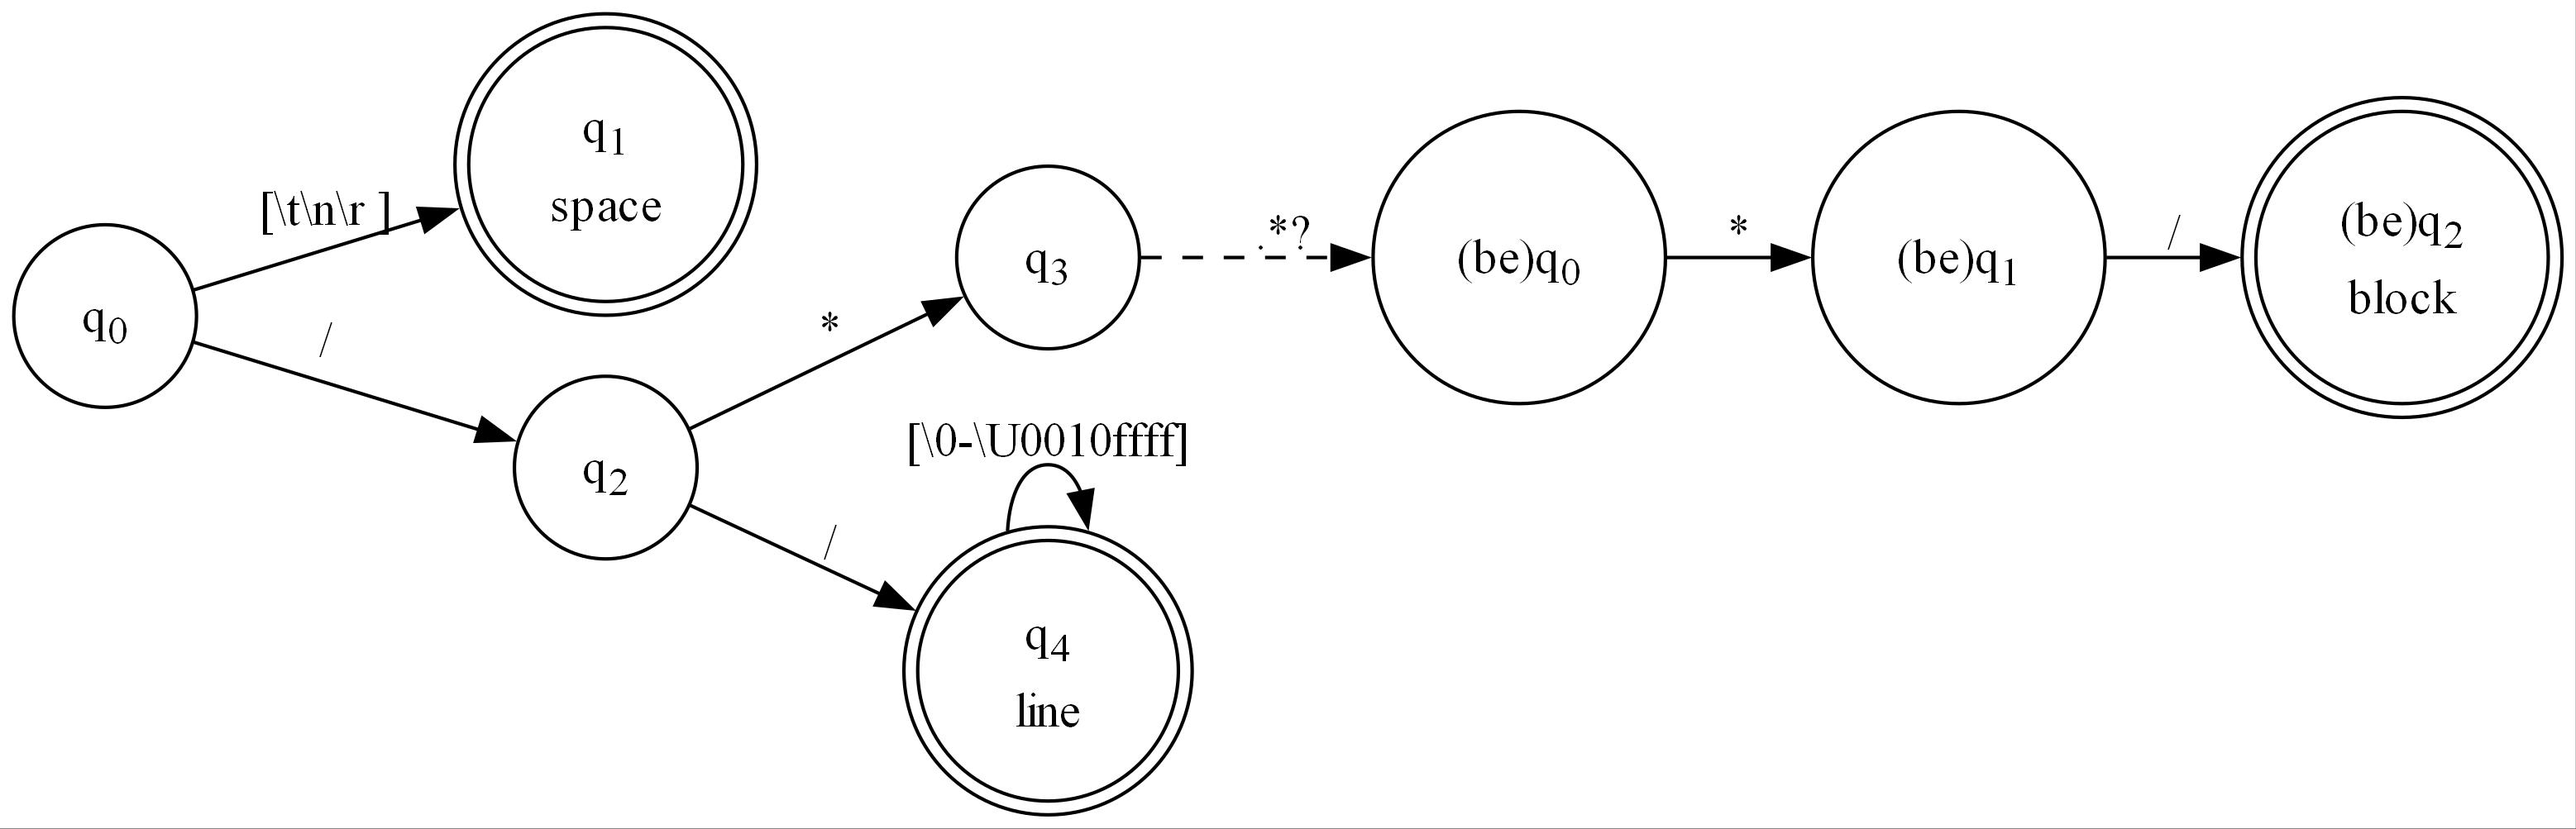
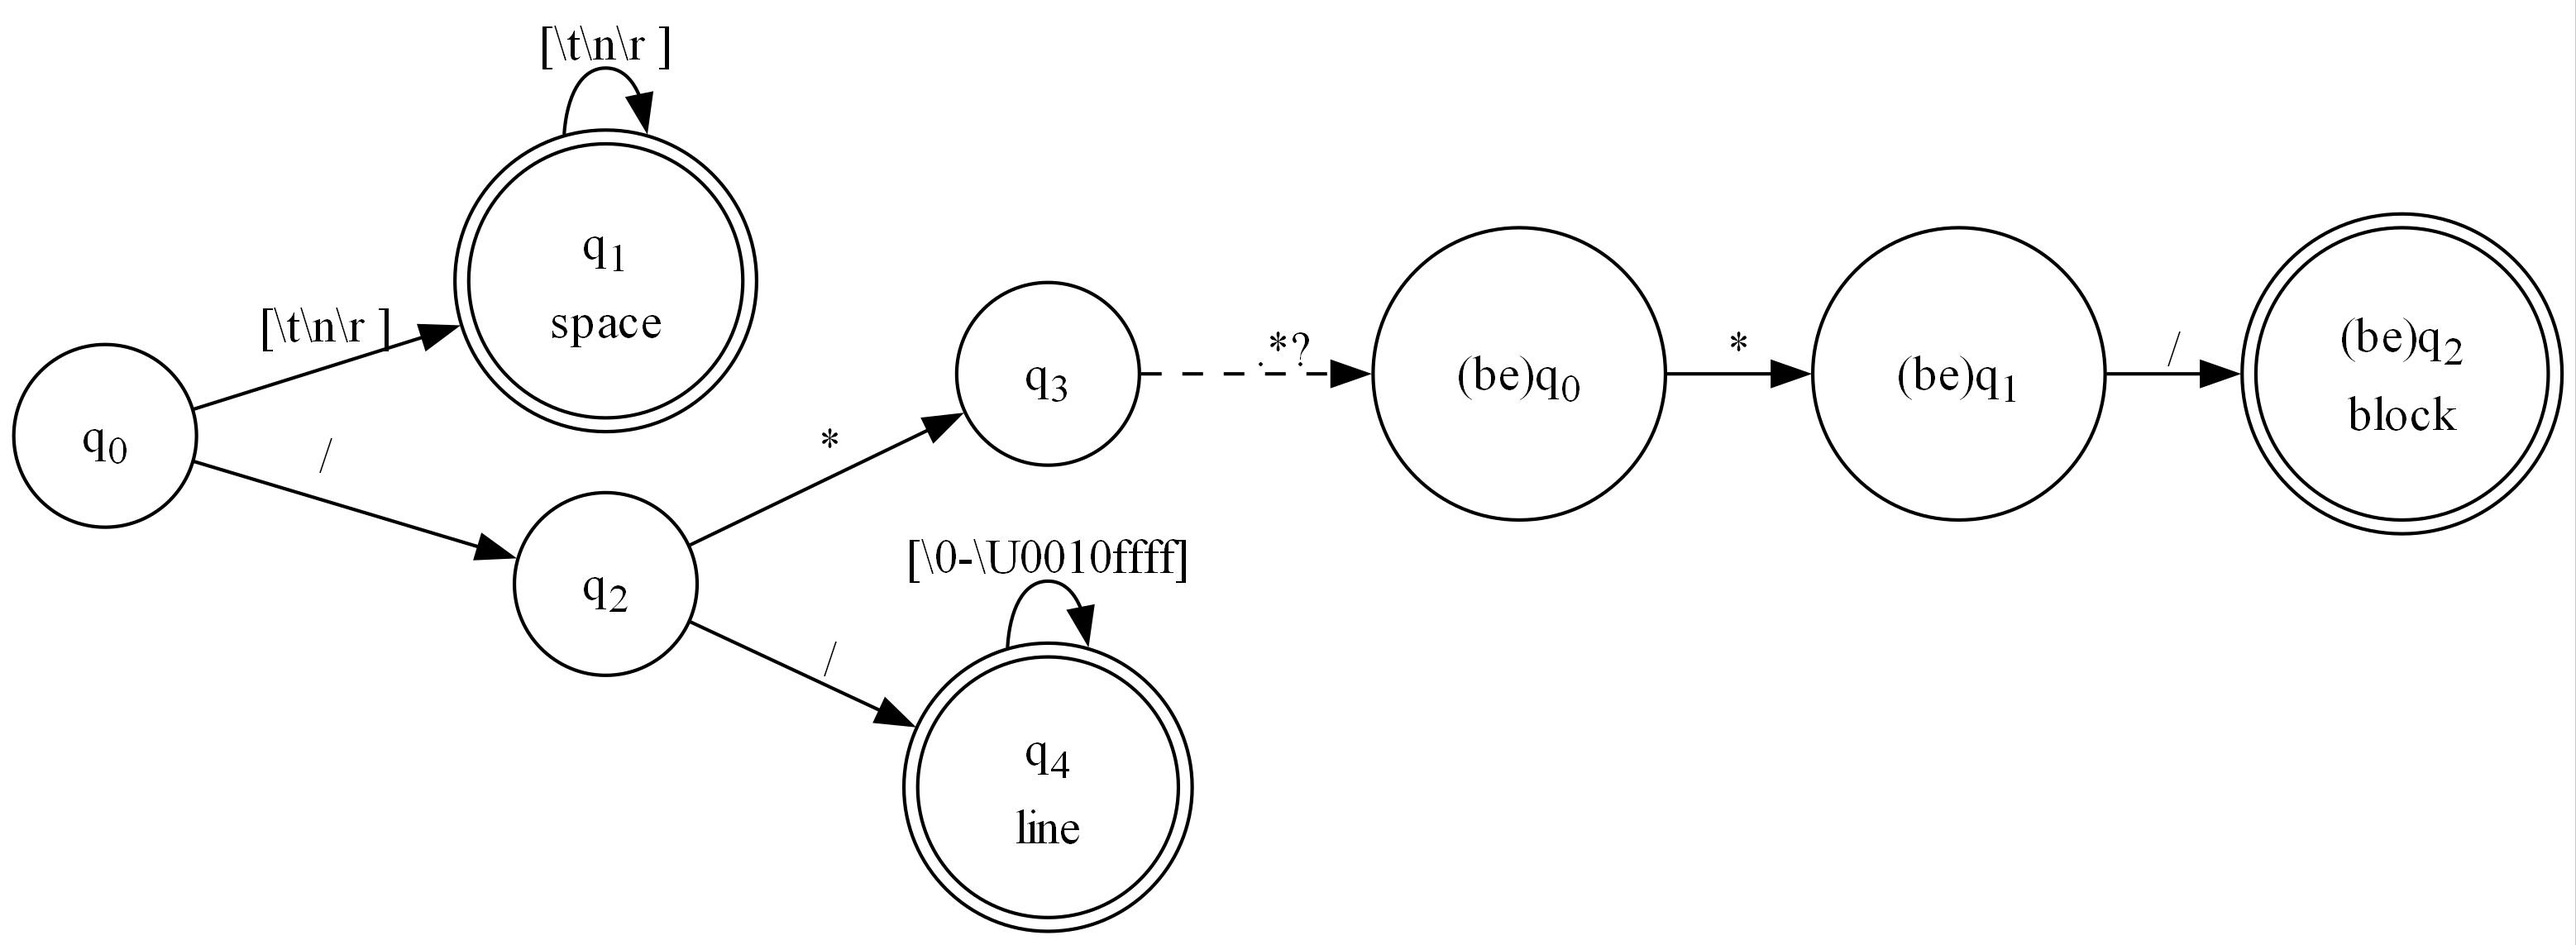
bugfixes

diff --git a/VisualFA.brick.cs b/VisualFA.brick.cs
@@ -1016,11 +1016,11 @@ public override string ToString(){if(Id>-1){return String.Concat("q",Id.ToString
 /// <param name="range">The range of input codepoints to transition on</param>
 /// <param name="to">The state to transition to</param>
 /// <exception cref="ArgumentNullException"><paramref name="to"/> was null</exception>
-public void AddTransition(FARange range,FA to){if(to==null)throw new ArgumentNullException(nameof(to));if(range.Min=='/')System.Diagnostics.Debugger.Break();
-if(range.Min==-1&&range.Max==-1){AddEpsilon(to);return;}if(range.Min>range.Max){int tmp=range.Min;range.Min=range.Max;range.Max=tmp;}var insert=-1;for
-(int i=0;i<_transitions.Count;++i){var fat=_transitions[i];if(to==fat.To){if(range.Min==fat.Min&&range.Max==fat.Max){return;}}if(IsDeterministic){if(range.Intersects(
-new FARange(fat.Min,fat.Max))){IsDeterministic=false;}}if(range.Min>fat.Min){insert=i;}if(!IsDeterministic&&range.Max<fat.Min){break;}}_transitions.Insert(insert+1,
-new FATransition(to,range.Min,range.Max));}public void ClearTransitions(){_transitions.Clear();IsDeterministic=true;IsCompact=true;}/// <summary>
+public void AddTransition(FARange range,FA to){if(to==null)throw new ArgumentNullException(nameof(to));if(range.Min==-1&&range.Max==-1){AddEpsilon(to);
+return;}if(range.Min>range.Max){int tmp=range.Min;range.Min=range.Max;range.Max=tmp;}var insert=-1;for(int i=0;i<_transitions.Count;++i){var fat=_transitions[i];
+if(to==fat.To){if(range.Min==fat.Min&&range.Max==fat.Max){return;}}if(IsDeterministic){if(range.Intersects(new FARange(fat.Min,fat.Max))){IsDeterministic
+=false;}}if(range.Min>fat.Min){insert=i;}if(!IsDeterministic&&range.Max<fat.Min){break;}}_transitions.Insert(insert+1,new FATransition(to,range.Min,range.Max));
+}public void ClearTransitions(){_transitions.Clear();IsDeterministic=true;IsCompact=true;}/// <summary>
 /// Ensures that the machine has no incoming transitions to the starting state, as well as only one final state.
 /// </summary>
 /// <param name="start">The start state, in case a new one needs to be created.</param>
@@ -1746,11 +1746,11 @@ string s
 public
 #endif
 abstract partial class FATextReaderRunner:FARunner{protected TextReader reader;protected StringBuilder capture=new StringBuilder();protected int current;
-public void Set(TextReader reader){this.reader=reader;current=-2;position=-1;line=1;column=0;}public override void Reset(){throw new NotSupportedException();
-}protected void Advance(){if(current>-1){capture.Append(char.ConvertFromUtf32(current));}current=reader.Read();if(current==-1){return;}++position;char
- ch1=unchecked((char)current);if(char.IsHighSurrogate(ch1)){current=reader.Read();if(current==-1){ThrowUnicode(position);}char ch2=unchecked((char)current);
-current=char.ConvertToUtf32(ch1,ch2);++position;}switch(this.current){case'\n':++line;column=0;break;case'\r':column=0;break;case'\t':column=((column-
-1)/tabWidth)*(tabWidth+1);break;default:if(this.current>31){++column;}break;}}}
+public void Set(TextReader reader){this.reader=reader;current=-2;position=-1;line=1;column=1;}public override void Reset(){throw new NotSupportedException();
+}protected void Advance(){switch(this.current){case'\n':++line;column=1;break;case'\r':column=1;break;case'\t':column=((column-1)/tabWidth)*(tabWidth+
+1);break;default:if(this.current>31){++column;}break;}if(current>-1){capture.Append(char.ConvertFromUtf32(current));}current=reader.Read();if(current==
+-1){return;}++position;char ch1=unchecked((char)current);if(char.IsHighSurrogate(ch1)){current=reader.Read();if(current==-1){ThrowUnicode(position);}char
+ ch2=unchecked((char)current);current=char.ConvertToUtf32(ch1,ch2);++position;}}}
 #endregion // FATextReaderRunner
 #region FAStringDfaTableRunner
 #if FALIB
@@ -1892,11 +1892,11 @@ _states.Clear();if(!ffa.IsCompact){FA.FillEpsilonClosure(ffa,_states);}else{_sta
 _blockEnds.Length>acc&&_blockEnds[acc]!=null){var be=_blockEnds[acc];if(be.IsDeterministic){dfaState=be;dfaInitial=be;}else{_initial.Clear();if(be.IsCompact)
 {_initial.Add(be);}else{FA.FillEpsilonClosure(be,_initial);}_states.Clear();_states.AddRange(_initial);}while(true){if(dfaState!=null){dfaNext=dfaState.Move(current);
 }else{dfaNext=null;_nexts.Clear();FA.FillMove(_states,current,_nexts);}if(dfaNext!=null){Advance();if(dfaNext.IsDeterministic){dfaState=dfaNext;}else{
-_states.Clear();if(dfaNext.IsCompact){_states.Add(dfaNext);}else{FA.FillEpsilonClosure(dfaNext,_states);}}dfaNext=null;}else if(_nexts.Count>0){Advance();
-if(_nexts.Count==1){var ffa=_nexts[0]; if(ffa.IsDeterministic){dfaState=ffa;}else{dfaNext=null;_states.Clear();if(!ffa.IsCompact){FA.FillEpsilonClosure(ffa,
-_states);}else{_states.Add(ffa);}}}else{_states.Clear();FA.FillEpsilonClosure(_nexts,_states);}_nexts.Clear();}else{if(dfaState!=null){if(dfaState.IsAccepting)
-{return FAMatch.Create(acc,capture.ToString(),cursor_pos,line,column);}}else{if(-1<FA.GetFirstAcceptSymbol(_states)){return FAMatch.Create(acc,capture.ToString(),
-cursor_pos,line,column);}}Advance();if(dfaInitial!=null){_states.Clear();dfaState=dfaInitial;}else{dfaState=null;_states.Clear();_states.AddRange(_initial);
+_states.Clear();if(dfaNext.IsCompact){_states.Add(dfaNext);}else{FA.FillEpsilonClosure(dfaNext,_states);}dfaState=null;}dfaNext=null;}else if(_nexts.Count
+>0){Advance();if(_nexts.Count==1){var ffa=_nexts[0]; if(ffa.IsDeterministic){dfaState=ffa;}else{dfaNext=null;_states.Clear();if(!ffa.IsCompact){FA.FillEpsilonClosure(ffa,
+_states);}else{_states.Add(ffa);}dfaState=null;}}else{_states.Clear();FA.FillEpsilonClosure(_nexts,_states);}_nexts.Clear();}else{if(dfaState!=null){if
+(dfaState.IsAccepting){return FAMatch.Create(acc,capture.ToString(),cursor_pos,line,column);}}else{if(-1<FA.GetFirstAcceptSymbol(_states)){return FAMatch.Create(acc,
+capture.ToString(),cursor_pos,line,column);}}Advance();if(dfaInitial!=null){_states.Clear();dfaState=dfaInitial;}else{dfaState=null;_states.Clear();_states.AddRange(_initial);
 }if(current==-1){return FAMatch.Create(-1,capture.ToString(),cursor_pos,line,column);}}}}else{return FAMatch.Create(acc,capture.ToString(),cursor_pos,
 line,column);}}else{if(dfaInitial!=null){while(current!=-1&&dfaInitial.Move(current)==null){Advance();}}else{_states.Clear();while(current!=-1&&FA.FillMove(_initial,
 current,_states).Count==0){Advance();}}if(capture.Length==0){return FAMatch.Create(-2,null,0,0,0);}return FAMatch.Create(-1,capture.ToString(),cursor_pos,

diff --git a/GeneratorDemo/Program.cs b/GeneratorDemo/Program.cs
@@ -8,7 +8,7 @@ var exp = "/* foo */\r\n/*baz*/\r\n&%^ the quick /*bar */#(@*$//brown fox /* tri
 var commentStart = FA.Parse(@"\/\*", 0, false);
 var commentEnd = FA.Parse(@"\*\/", 0, false);
 var commentLine = FA.Parse(@"\/\/[^\r\n]*", 1, false);
-var whitespace = FA.Parse(@"[ \r\n\t]",2,false);
+var whitespace = FA.Parse(@"[ \r\n\t]+",2,false);
 var lexer = FA.ToLexer(new FA[] { commentStart , commentLine, whitespace }, true);
 var dgo = new FADotGraphOptions();
 dgo.BlockEnds = new FA[] { commentEnd.ToMinimizedDfa() };
@@ -34,13 +34,22 @@ Console.WriteLine("Hello, World!");
 var stringRunner = lexer.Run(exp,new FA[] {commentEnd}) ;
 foreach (var m in stringRunner)
 {
-	Console.WriteLine("{0}:{1} at {2}, {3}:{4}", m.SymbolId, m.Value, m.Position, m.Line, m.Column);
+	Console.WriteLine("{0}:{1} at {2}, {3}:{4}", m.SymbolId, m.Value.Replace("\r", "\\r").Replace("\n","\\n"), m.Position, m.Line, m.Column);
+
+}
+Console.WriteLine("---------------------");
+var textRunner = lexer.Run(new StringReader(exp), new FA[] { commentEnd });
+foreach (var m in textRunner)
+{
+	Console.WriteLine("{0}:{1} at {2}, {3}:{4}", m.SymbolId, m.Value.Replace("\r", "\\r").Replace("\n", "\\n"), m.Position, m.Line, m.Column);
+
 }
 Console.WriteLine("---------------------");
 var genRunner = new CommentRunner();
+
 genRunner.Set(exp);
 foreach (var m in genRunner)
 {
-	Console.WriteLine("{0}:{1} at {2}, {3}:{4}", m.SymbolId, m.Value, m.Position, m.Line, m.Column);
+	Console.WriteLine("{0}:{1} at {2}, {3}:{4}", m.SymbolId, m.Value.Replace("\r", "\\r").Replace("\n", "\\n"), m.Position, m.Line, m.Column);
 }
 

diff --git a/VisualFA/FARunner.cs b/VisualFA/FARunner.cs
@@ -222,7 +222,7 @@ namespace VisualFA
 			current = -2;
 			position = -1;
 			line = 1;
-			column = 0;
+			column = 1;
 		}
 		public override void Reset()
 		{
@@ -230,6 +230,25 @@ namespace VisualFA
 		}
 		protected void Advance()
 		{
+			switch (this.current)
+			{
+				case '\n':
+					++line;
+					column = 1;
+					break;
+				case '\r':
+					column = 1;
+					break;
+				case '\t':
+					column = ((column - 1) / tabWidth) * (tabWidth + 1);
+					break;
+				default:
+					if (this.current > 31)
+					{
+						++column;
+					}
+					break;
+			}
 			if (current > -1)
 			{
 				capture.Append(char.ConvertFromUtf32(current));
@@ -251,25 +270,6 @@ namespace VisualFA
 				char ch2 = unchecked((char)current);
 				current = char.ConvertToUtf32(ch1, ch2);
 				++position;
-			}
-			switch (this.current)
-			{
-				case '\n':
-					++line;
-					column = 0;
-					break;
-				case '\r':
-					column = 0;
-					break;
-				case '\t':
-					column = ((column - 1) / tabWidth) * (tabWidth + 1);
-					break;
-				default:
-					if (this.current > 31)
-					{
-						++column;
-					}
-					break;
 			}
 		}
 	}
@@ -1148,6 +1148,7 @@ namespace VisualFA
 										{
 											FA.FillEpsilonClosure(dfaNext, _states);
 										}
+										dfaState = null;
 									}
 									dfaNext = null;
 
@@ -1175,6 +1176,7 @@ namespace VisualFA
 											{
 												_states.Add(ffa);
 											}
+											dfaState = null;
 										}
 									}
 									else

diff --git a/GeneratorDemo/CommentRunner.cs b/GeneratorDemo/CommentRunner.cs
@@ -71,6 +71,14 @@ internal sealed partial class CommentRunner : FAStringRunner {
         }
         goto errorout;
     q1:
+        // [\t-\n\r ]
+        if (((((ch >= 9) 
+                    && (ch <= 10)) 
+                    || (ch == 13)) 
+                    || (ch == 32))) {
+            this.Advance(s, ref ch, ref len, false);
+            goto q1;
+        }
         return FAMatch.Create(2, s.Slice(p, len).ToString(), p, l, c);
     q2:
         // [\*]

diff --git a/VisualFA/FA.cs b/VisualFA/FA.cs
@@ -504,7 +504,7 @@ namespace VisualFA
 		{
 			if (to == null) 
 				throw new ArgumentNullException(nameof(to));
-			if(range.Min=='/') System.Diagnostics.Debugger.Break();
+			
 			if(range.Min==-1 && range.Max==-1)
 			{
 				AddEpsilon(to);
